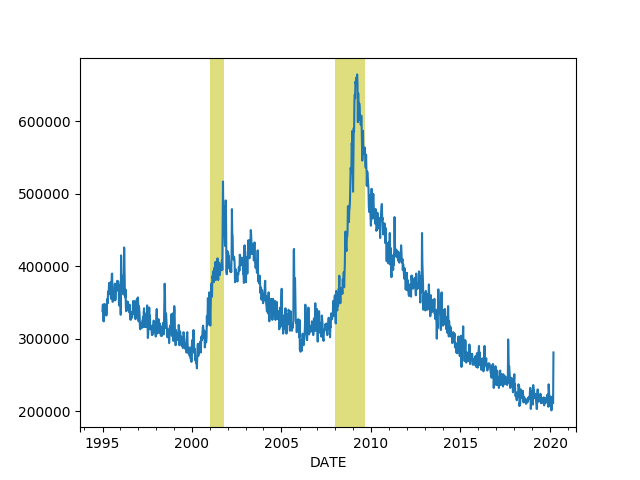
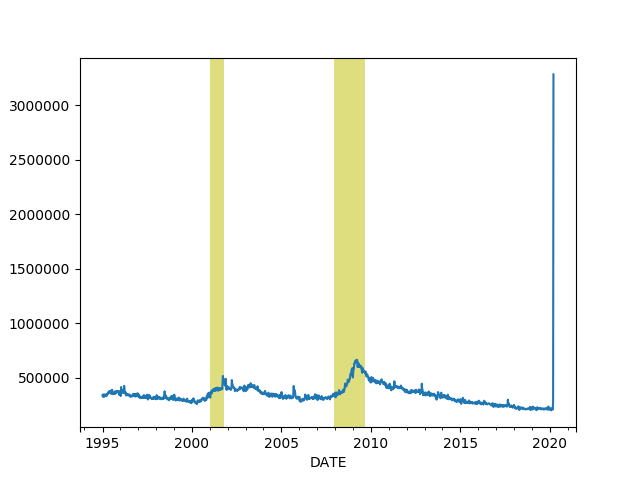
-

diff --git a/en/2019/05/stats.md b/en/2019/05/stats.md
@@ -235,12 +235,12 @@ plt.savefig('icsa.png')
 ```
 
 ```text
-              ICSA
-DATE              
-2020-02-22  220000
-2020-02-29  217000
-2020-03-07  211000
-2020-03-14  281000
+                 ICSA
+DATE                 
+2020-02-29        NaN
+2020-03-07   211000.0
+2020-03-14   282000.0
+2020-03-21  3283000.0
 ```
 
 ![](icsa.png)
